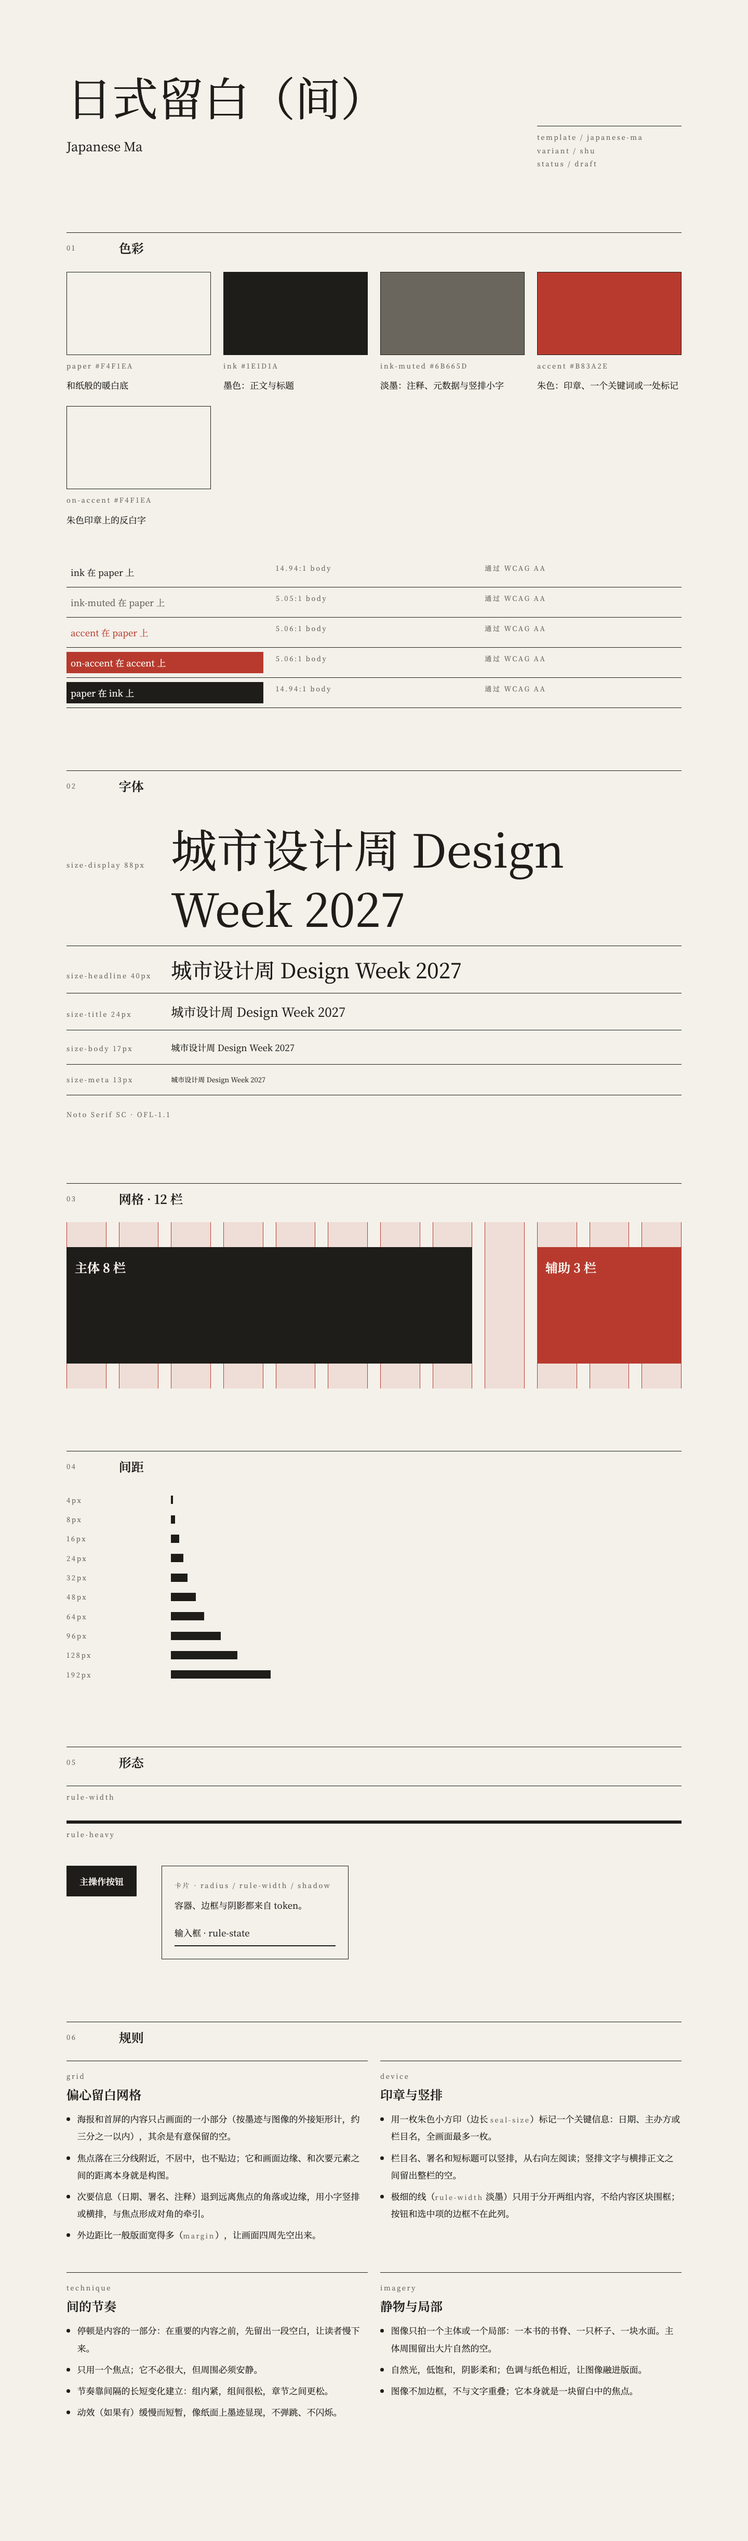
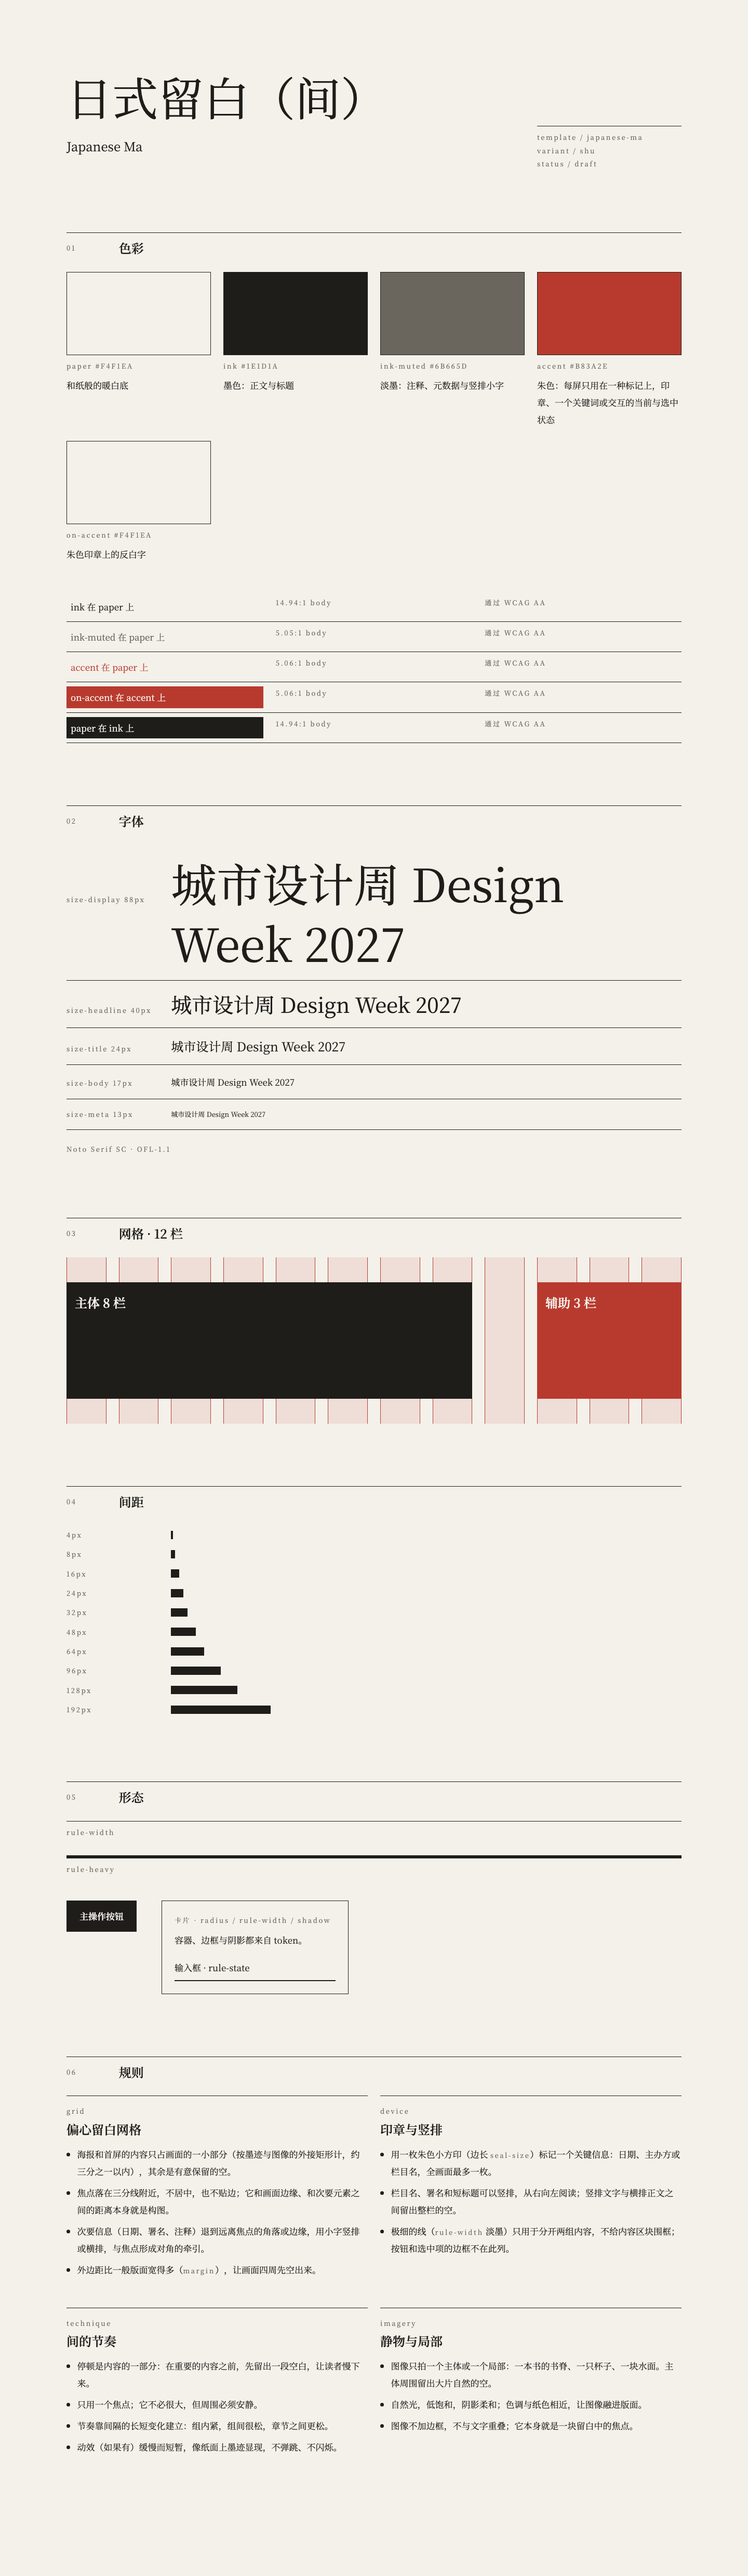
fix(musekit): close the gaps found in review of the style fixes
The sumi-shu colour seed now states the one-mark-per-screen vermilion
rule the template uses. A mono-print web section whose image uses the
second plate gives the plate no other role. Editorial-serif counts the
three-line limit per title-group item, keeps the running head out of the
title group and says where sidenotes go below 1100px. Neo-Swiss ties the
tinted keyword to the large-text condition, so a 22px mobile title must
be bold. The schema and style guide note that resolve now carries each
exemplar's borrow notes into style.md.

diff --git a/plugins/musekit/skills/musepool/library/templates/neo-swiss.md b/plugins/musekit/skills/musepool/library/templates/neo-swiss.md
@@ -74,7 +74,7 @@ exemplars: [LjwyQI6U, Vy3KTWAC, Yoiov5EL]
 - 一个巨大的标题字块就是主视觉：跨 9–12 栏，可以压在画布边缘被裁掉一小部分，但关键字形完整可辨。标题跨满 12 栏时，辅助信息不另占窄栏，排在标题下方的元数据表里。
 - 展示字号以 `size-display` 为参照，用 `muse.py fit` 按标题字数推导：让字块正好跨满所选的栏，或者明确出血到画布外；不要停在栏界和画布边缘之间。
 - 标题齐左压在一条栏线上；日期、地点、主办方等信息排成底部或右侧窄栏中的元数据表，上方一条细线。
-- 强调色二选一：一整块色面占画面 1/4 到 1/2，标题叠在色面与纸面的交界上；或者纸面为主，只把一个大字染成强调色：日期的大号数字或一个关键词，字号不小于 `size-title`。强调色放在纸上只能用于大字（见「文字配对」），元数据表里的小字保持墨色。
+- 强调色二选一：一整块色面占画面 1/4 到 1/2，标题叠在色面与纸面的交界上；或者纸面为主，只把一个大字染成强调色：日期的大号数字或一个关键词，字号满足「文字配对」里的大字条件（24px 以上，或 18.7px 以上的粗体），手机上的 `size-title` 要加粗。强调色放在纸上只能用于大字（见「文字配对」），元数据表里的小字保持墨色。
 - 画面中至少留出一块与标题面积相当的空网格单元，让大字有呼吸的位置；空着的强调色面也算。
 - 区块的起点落在 8 的倍数上；画布高度见 `canvas-height`，上下边距与 `margin` 相同。
 - 系列图共享网格、标题位置与元数据栏的位置，变化来自内容与强调色面的位置。

diff --git a/plugins/musekit/skills/musepool/library/templates/mono-print.md b/plugins/musekit/skills/musepool/library/templates/mono-print.md
@@ -86,7 +86,7 @@ exemplars: [mC1nkP2t, C4aZtWoH]
 
 - 首屏是一张「印出来的海报」：网点图像或超大标题作为焦点，一块开放纸面作为释放区，事实信息用等宽规线栏。没有照片时的做法与 graphic 相同：程序生成的网点图形，或带碰撞、叠印事件的文字宣言。
 - 网页的颜色仍然只有纸和两种墨；按钮用主印版实色加纸色文字，悬停时加下划线。副印版色块上只放大字。
-- 列表与日程用细规线分隔的行，日期等宽；图像全部以网点或双色调呈现（CSS `mix-blend-mode: multiply`）。
+- 列表与日程用细规线分隔的行，日期等宽；图像全部以网点或双色调呈现（CSS `mix-blend-mode: multiply`）；图像用了副印版的那一段，副印版的角色就是这张图像，不再另做大号日期或注释。
 - 首屏以下像一册 zine 的内页：每一段换一个构图家族（规线信息表、标本加注释、文字宣言、重复物件场），每段只有一个焦点事件和一块释放区。
 - 1100px 以下：焦点图像缩到 7–8 栏，事实规线栏放在它的右侧或下方，保证首屏能看到日期和主操作。
 - 窄屏退为 4 栏：焦点图像或标题跨满宽度，释放区缩小但保留，展示字按 `mobile` 断点缩小。

diff --git a/plugins/musekit/skills/musepool/library/seeds/color/sumi-shu.md b/plugins/musekit/skills/musepool/library/seeds/color/sumi-shu.md
@@ -19,7 +19,7 @@ tokens:
     role: 淡墨：注释、元数据与竖排小字
   accent:
     value: "#B83A2E"
-    role: 朱色：印章、一个关键词或一处标记
+    role: 朱色：每屏只用在一种标记上，印章、一个关键词或交互的当前与选中状态
   on-accent:
     value: "#F4F1EA"
     role: 朱色印章上的反白字
@@ -40,7 +40,7 @@ pairs:
 
 ## 要点
 
-- 纸与墨占据几乎全部画面；朱色只出现一次，面积小而准确，像一枚印章或一处圈点。
+- 纸与墨占据几乎全部画面；朱色每屏只用在一种标记上，面积小而准确，像一枚印章或一处圈点。
 - 层次靠墨的浓淡（`ink` 与 `ink-muted`）建立，不引入第二种彩色。
 - 两个变体：朱色温暖、有节庆与手作感；藍（ai）更冷静，适合机构与学术内容。
 

diff --git a/plugins/musekit/skills/musepool/library/seeds/grid/editorial-columns.md b/plugins/musekit/skills/musepool/library/seeds/grid/editorial-columns.md
@@ -37,4 +37,4 @@ tokens:
 
 ## 适用与边界
 
-居中只给短行：每一组不超过三行，超过三行的文字不居中。需要并排比较的内容（日程、价格）可以打破正文栏宽，但仍对齐到栏线上。海报和首屏不排正文段落，只有标题组和版权行。
+居中只给短行：标题组里的每一项（栏目、标题、导语、署名）各不超过三行，超过三行的文字不居中。书眉和它下方的通栏细线不属于标题组。窄于 1100px、外侧窄栏放不下旁注时，旁注移到对应段落之前。需要并排比较的内容（日程、价格）可以打破正文栏宽，但仍对齐到栏线上。海报和首屏不排正文段落，只有标题组和版权行。
